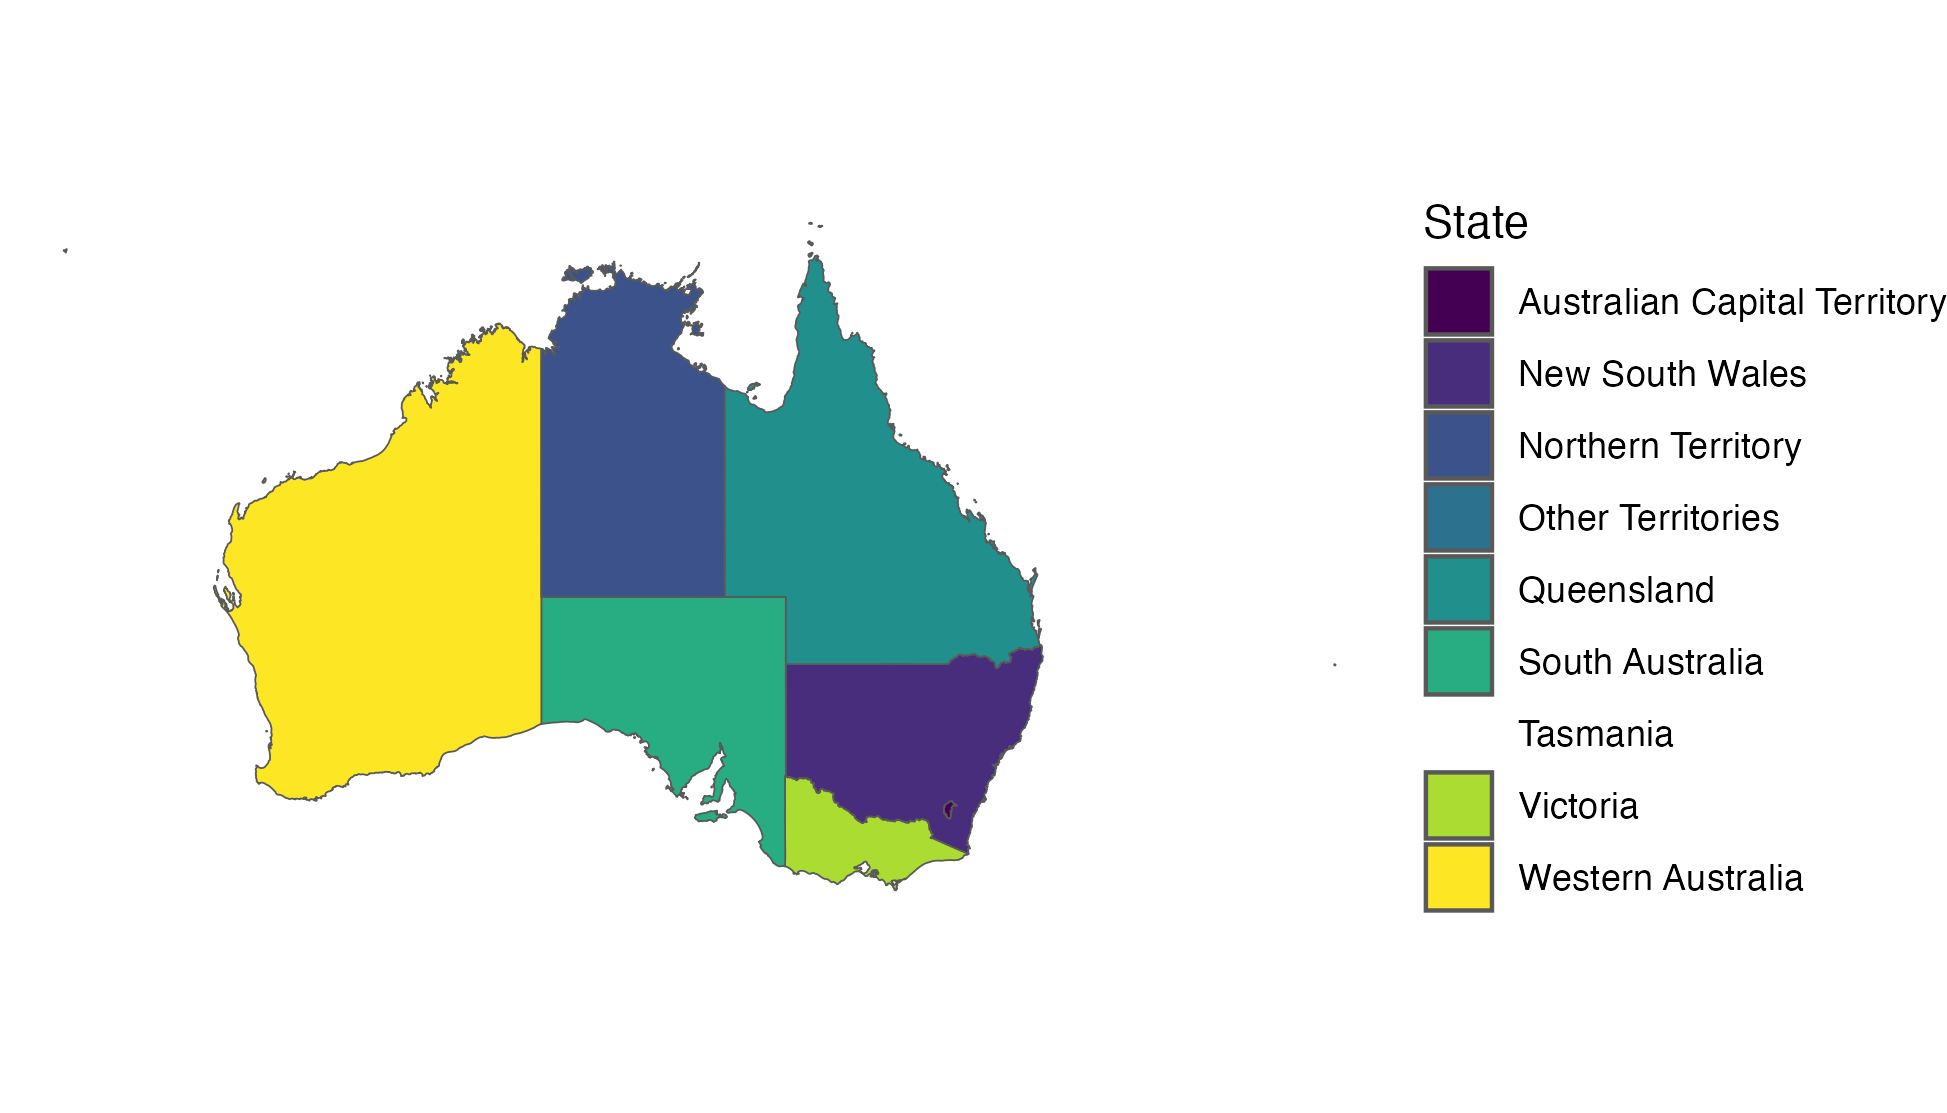
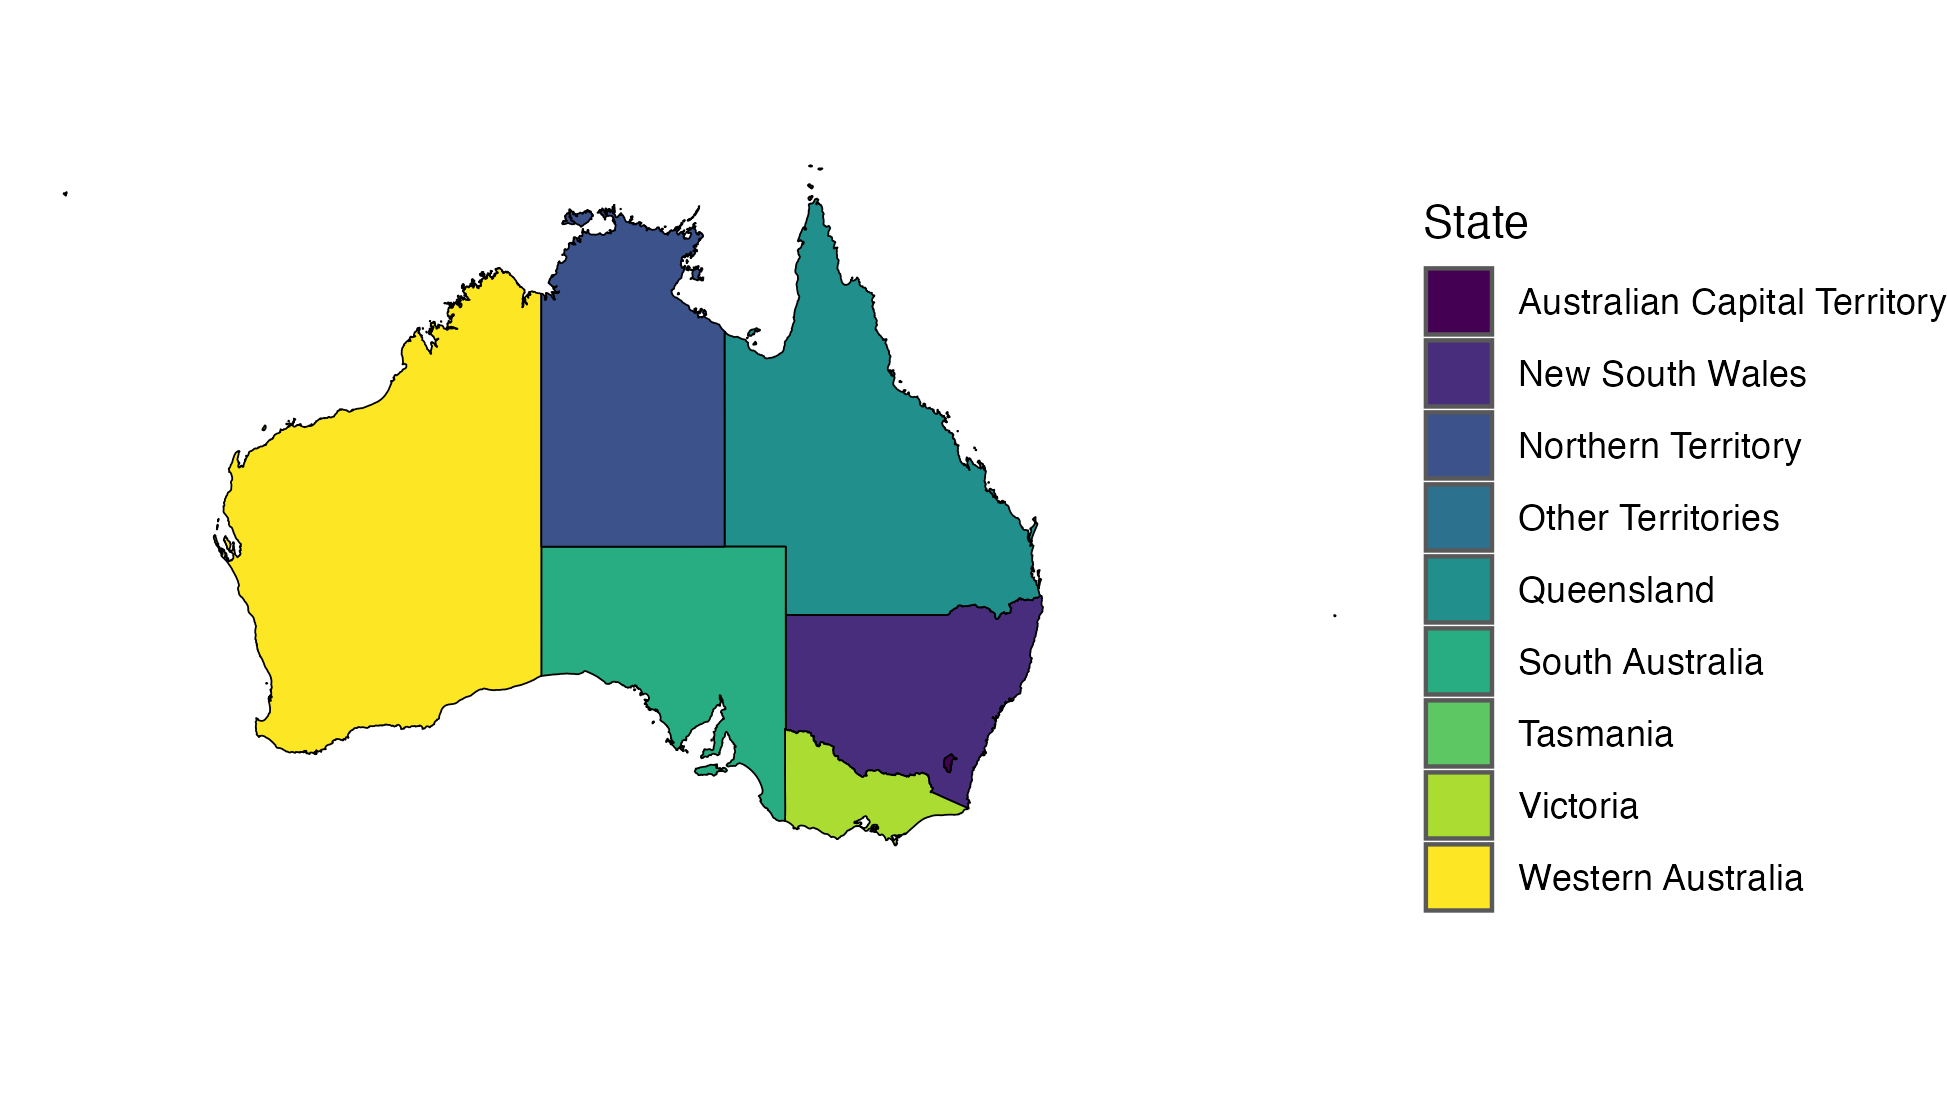
Add Tasmania colours

Changed region(s): [[0.0924, 0.1833, 0.5547, 0.7942], [0.2773, 0.4888, 0.4314, 0.5499], [0.7088, 0.611, 0.7704, 0.7026]]

diff --git a/js/comparison.js b/js/comparison.js
@@ -204,6 +204,7 @@ function handleRunButtonClick() {
             analyzeDifferences(diffCtx);
           }
         };
+        console.log("hello");
         diffImg.src = data.getImageDataUrl();
       } else {
         console.log("Diff image not available");